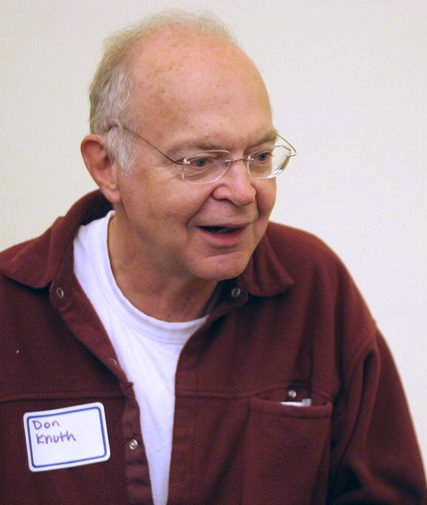
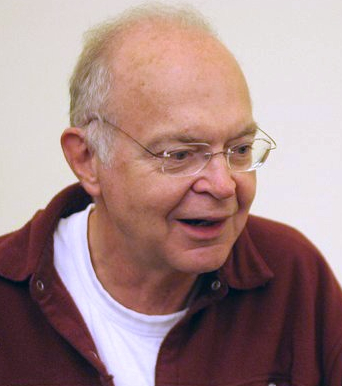
finish wording pass on discussion of Big O

diff --git a/src/complexity/complexity.tex b/src/complexity/complexity.tex
@@ -1021,11 +1021,14 @@ then we may say that the problem is, or at least appears,
 
 
 \subsection{Discussion}
-Big~$\bigOh$ is about scalability:~an 
-algorithm that is $\bigOh(n^2)$ scales worse than something that is 
-$\bigOh(n \lg n)$ but better than something that is
-$\bigOh(n^3)$.  % credit: https://softwareengineering.stackexchange.com/a/20833
+Big~$\bigOh$ is about relative scalability:~an 
+algorithm that is $\bigOh(n^2)$ scales worse than one that is 
+$\bigOh(n \lg n)$ but better than one that is
+$\bigOh(n^3)$.  % credit: 
 Is there more to say than that?
+\begin{credit}
+  Some of the discussion is from \url{https://softwareengineering.stackexchange.com/a/20833}.
+\end{credit}
 
 Yes, that is the essence.
 Nonetheless, experience shows that there are points about Big~$\bigOh$
@@ -1110,31 +1113,24 @@ Thus, to understand the cost of an algorithm,
 we must first settle on a model,
 and only then discuss the Big~$\bigOh$.
 
-% Discussion started as: https://cs.stackexchange.com/questions/9957/justification-for-neglecting-constants-in-big-o
-We have already metioned our third point about Big~$\bigOh$
+\begin{credit}
+  Discussion of the third issue started as 
+  \url{https://cs.stackexchange.com/questions/9957/justification-for-neglecting-constants-in-big-o}.  
+\end{credit}
+We have already brought up our third issue about Big~$\bigOh$
 in relation to Cobham's Thesis.
 \citetext{The definition of Big-$\bigOh$ ignores constant factors}{%
   This discussion originated as \autocite{SE:IgnoreConstants}.};~does 
 that disqualify Big~$\bigOh$
-for comparing algorithms?
-If our analysis
-shows that for inputs~$n>N$, our algorithm takes time
+for comparing algorithms\Dash
+if, for inputs~$n>N$, our algorithm takes time
 given by $C\cdot n^2$,
 don't we need to know~$C$ and~$N$?
-After all, an enormous~$C$ would make the algorithm
-completely impractical, and 
-a huge~$N$ would mean that we need to analyze what happens 
+After all, if one algorithm has an enormous~$C$ and another has a tiny one,
+could that not make the second algorithm more useful for our case?
+Similarly,  
+a huge~$N$ seemingly could mean that we need to analyze what happens 
 before that point.\footnote{%
-% And, there are other constants that we ignore.
-% Imagine that analysis of an algorithm on a RAM model finds that
-% the time it takes is
-% $4n^2\cdot T+3n\cdot W+2n\cdot R+\lg M$
-% where the constants are:~$T$ is the time for a clock tick,
-% $W$ and~$R$ are the times for a disk write and read,
-% and~$M$ is the time for a memory access.
-% Besides ignoring the $4$ in~$4n^2$, in citing the algorithm we would typically
-% also not put a value to the constants, instead for instance saying that
-% the algorithm is ``logarithmic in memory usage.''
   People do sometimes note
   \protect\citetext{the order of magnitude of these constants}{%
     For a rough idea of that these may be, here are some numbers that
@@ -1155,121 +1151,122 @@ before that point.\footnote{%
     A nanosecond is $10^{-9}$~seconds.  
     For a fuller description see
     \protect\url{https://www.youtube.com/watch?v=JEpsKnWZrJ8&app=desktop}.}.}
-% Doesn't discounting
-% constants considerably reduce Big~$\bigOh$'s value for 
-% choosing among algorithms?
-
-One response is that finding these constants is very hard.
-They involve the hardware's low-level details
-such as the memory addressing and paging, cache hits, and whether
-the CPU can do some operations in parallel.
-And, even if you find the constants,
-usually 
-they do not change the algorithm that you pick.
-% As \cref{tab:CompareFcnNumbers} illustrates, knowing that the algorithm
-% grows logarithmically in memory usage is in the long run
-% vastly more influential that the exact value of the constant.
 
 \margingraphic[l]{0.17\textwidth}{complexity/pix/knuth.jpg}{\label{fig:Knuth}\href{https://en.wikipedia.org/wiki/Donald_Knuth}{Donald Knuth b~1938}}\index{Knuth, D!picture}
-A second, related, response is that we have no standard.
-Machines vary widely in their low-level details and these details can
-make a tremendous difference.
-% This holds
-% even if we forget about such models as Turing machines and just focus on
-% the kinds of machines
-% that we have on our desks and in our pockets.
-We could try to agree 
-on a specification for a
-standard reference model\Dash
+The answer is that finding these constants is very hard.
+Machines vary widely in their low-level details 
+such as the memory addressing and paging, cache hits, and whether
+the CPU can do some operations in parallel,
+and these details can
+make a tremendous difference in constants such as $C$ and~$N$.
+Imagining doing the analysis on a comercially available machine,
+and then the vendor releases a new model so it is all to do again.
+That would be discouraging.
+And what's more, 
+experience shows that 
+usually knowing the exact numbers
+does not change the algorithm that you pick.
+As \cref{tab:CompareFcnNumbers} illustrates, knowing at a Big~$\bigOh$ level
+how the algorithm
+grows is, at least in the long run,
+vastly more influential that knowing the exact constant values.
+
+\margingraphic[r]{0.42\textwidth}{complexity/pix/xkcdknuth.png}{\label{fig:xkcdBigO}\href{https://xkcd.com/163/}{Courtesy \url{xkcd.com}}}
+We could instead try to agree 
+on specifications for a standard reference model\Dash
 this is the approach taken by  D~Knuth in the monumental
 \textit{Art of Computer Programming} series\Dash
-but we would have to
-\citetext{periodically update the standard}{%
+but that opens up the risk that we might have to
+\citetext{sometimes update that standard}{%
   Knuth had to update standards, from MIX to MMIX.}.
-So published results from some ago may be a problem
+So published results from some ago may no longer apply,
 because they refer to an old standard.
-Being reference independent is an advantage, and in a
-quickly changing field, almost a necessity.
+Again, discouraging.
+So the analysis that we do to find the Big~$\bigOh$ behavior of an
+algorithm usually refers to an abstract computer model, such as a 
+Turing machine or a RAM model, but it usually does not go to the 
+extent of finding the constants. 
+Thus being reference independent is, in a
+quickly changing field, a very real advantage.
 
-But being reference independent requires that we ignore constants
-and instead make relative statements.
-Not having to worry 
-about the 
-\par\noindent
-\margingraphic[r]{0.38\textwidth}{complexity/pix/xkcdknuth.png}{\label{fig:xkcdBigO}\href{https://xkcd.com/163/}{Courtesy \url{xkcd.com}}}
+This ties back to the paragraph that started this discussion.
+Big~$\bigOh$ is a tool for making relative comparisons. 
+But being reference independent implies ignoring constants
+such as $C$ and~$N$, and instead making relative statements.
+Not taking into account the precise
 difference between the cost of a division and the
 cost of a memory write 
 (as long as those costs lie between reasonable limits) implies that 
-constant factors are meaningless,
-since changing units is inseparable from changing constant factors.
+constant factors are meaningless, and we are left with relative 
+comparisons.
 Here is an analogy:~absolute measurement of distance
 involve units such as miles or kilometers,
-but being able to make statements irrespective of the units requires
-making relative statements such as,
+but being able to make statements irrespective of the unit constants requires
+making relative statements like,
 ``from here, New York City is twice as far as Boston.'' 
 
-\margingraphic{0.36\textwidth}{complexity/pix/xkcdbigo.png}{\label{fig:xkcdBigO}\href{https://xkcd.com/342/}{Courtesy \url{xkcd.com}}}
-So, as this discussion began by saying, 
-Big~$\bigOh$ notation expresses how an algorithm
-performs, on a particular machine model, as the input size grows.
-Thus we say that a function that takes $3n$ steps is $\bigOh(n)$
+\margingraphic{0.38\textwidth}{complexity/pix/xkcdbigo.png}{\label{fig:xkcdBigO}\href{https://xkcd.com/342/}{Courtesy \url{xkcd.com}}}
+Thus, we say that an algorithm that on input of size~$n$ will takes 
+$3n$~ticks is $\bigOh(n)$
 in order to express that, roughly,
 doubling the input size will no more than double the number of steps taken.
 Similarly, if an algorithm is $\bigOh(n^2)$ then
 doubling the input size will at most
-quadruple the number of steps, and
-$\bigOh(\lg n)$ means that doubling the input size will increase the number
-of steps by at most some constant.
+quadruple the number of steps.
+% , and
+% $\bigOh(\lg n)$ means that doubling the input size will increase the number
+% of steps by at most some constant.
 This notation ignores constants because that is inherient in being 
 a unit free, relative measurement.
 % It is not absolute; it is intended only to measure relative
 % performance variation.
 
-But certainly, as noted above, Big~$\bigOh$ is only a rough comparison;~it
+However, certainly Big~$\bigOh$ is only a rough comparison;~it
 cannot say with great precision when two algorithms
 which will be absolutely better when they are cast into code
-and run on a particular platform.\footnote{%
+and run on a particular platform for input sizes 
+in a particular range.\footnote{%
   For that, use benchmarks.}
 
-% https://stackoverflow.com/a/19647659
-That leads to the fourth point,
-\citetext{a concern involving the definition of Big~$\bigOh$ and Big~$\bigTheta$}{%
-  This discussion originated as \autocite{SE:pseudopolynomial}.}.
+\begin{credit}
+  The fourth point derives from \url{https://stackoverflow.com/a/19647659}.
+\end{credit}
+That leads to our fourth point about Big~$\bigOh$.
+\begin{credit}
+  This discussion originated as \autocite{SE:pseudopolynomial}.
+\end{credit}
 Understanding how an algorithm
 performs as the input size grows
-requires that we define input size.
-% There are two natural definitions and when we are modelling we
-% must choose whichever fits best. 
+requires that we define the input size.
 
-Consider a naive algorithm for factoring numbers that, given input $n$,
-tests each $k\in\set{2,\ldots\,n-1}$
-to see if it divides~$n$. 
-If~$n$ is prime then it tests all those $k$'s, which is
+Consider a naive algorithm for factoring numbers that, given an input natural
+number~$n$, tests each $k\in\set{2,\ldots\,n-1}$ to see if it divides~$n$. 
+If~$n$ is prime then it tests all of those $k$'s, which is
 roughly~$n$-many divisions.
-We can take
-the size of an input~$n$ to be the number of bits needed
+We can take the size of~$n$ to be the number of bits needed
 to represent~$n$ in binary,
 approximately~$\lg n$.
-So for this algorithm the input is of size about~$\lg n$
+That is, for this algorithm the input is of size~$\lg n$
 and the number of operations is about~$n$.
-That makes the number of operations exponential in the input
-size\Dash in this model this algorithm is 
+That's exponential growth\Dash passing from $\lg n$ to~$n$ 
+requires exponentiating\Dash so this algorithm is 
 $\bigOh(2^b)$, where $b$ is the number of input bits.
 
-However, most people's experience from programming class is that this
-algorithm would be described as linear, as $\bigOh(n)$, because
-for the number~$n$ there are about $n$-many divisions.
-How to explain the difference?
+However, in a programming class this
+algorithm would likely be described as linear, as $\bigOh(n)$,
+with the reasoning that 
+for the input~$n$ there are about $n$-many divisions.
+How to explain the difference between these two Big~$\bigOh$ estimates?
 
-This is another example that an algorithm depends on
-on an underlying computing model.
-In many application situations the programmer 
-makes the engineering judgement that for every use of their program the
-input will fit into a fixed-sized computer word, such as a $64$~bit word.
-This means that we are selecting a computation model, like the RAM model,
+This is another example of the relationship between an algorithm
+and an underlying computing model.
+A programmer may make  
+the engineering judgement that for every use of their program the
+input will fit into a $64$~bit word.
+They are selecting a computation model, like the RAM model,
 where larger numbers take the same time to read as smaller numbers.
-Then the prior paragraph applies and algorithm associated with
-this model is linear.
+With this model,
+the prior paragraph applies and the algorithm is linear.
 
 % For another example, if we are studying selection sort and after
 % careful thought we decide on the specification that
@@ -1293,28 +1290,28 @@ this model is linear.
 % input size and output size, since now the input size is measured as
 % a function of the number of nodes~$n$.
 
-So this is in  part an application versus theory thing:~in the common
-programming practice situation where the bit size of the inputs is bounded,
-the runtime behavior is a function of
-the number of inputs~$n$.
-In a theoretical conversation, accepting input that is arbitrarily large, it is 
-a function of the bit size of those inputs.
-An algorithm whose behavior as a function of the input is polynomial
+So this difference in Big~$\bigOh$ estimates is 
+an application versus theory thing.
+In the common programming application setting,
+where the bit size of the inputs is bounded,
+the runtime behavior is~$\bigOh(n)$.
+In a theoretical setting, accepting input that is arbitrarily large, 
+the runtime is a function of the bit size of the inputs,
+and so the algorithm is~$\bigOh(2^b)$.
+An algorithm whose behavior as a function of the input is polynomial,
 but whose behavior as a function of the bit size of the input is
-exponential is said to be \definend{pseudopolynomial}.
+exponential, is said to be 
+\definend{pseudopolynomial}.\index{pseudopolynomial}
 
-One final point about Big~$\bigOh$.
-When we are analyzing an algorithm we can look at
-different behaviors.
-For instance, 
-we can analyze the worst case behavior or the average behavior.
-An example is that the widely used sorting algorithm quicksort
-takes quadratic time $\bigOh(n^2)$ at worst
-but on average it is fast, $\bigOh(n\lg n)$.
-However, worst-case analysis is by far the most common.
-So, algorithm analysis can happen on a number of fronts.
-
-
+A last point about Big~$\bigOh$.
+When we are analyzing an algorithm
+we can consider the behavior that is the worst case 
+for any input of that size (as in \cref{def:TMTime}), 
+or the behavior that is the average over all inputs of that size.
+For instance, the quicksort algorithm
+takes quadratic time $\bigOh(n^2)$ at worst,
+but on average is $\bigOh(n\lg n)$.
+Note, though, that worst-case analysis is the most common.
 
 
 
